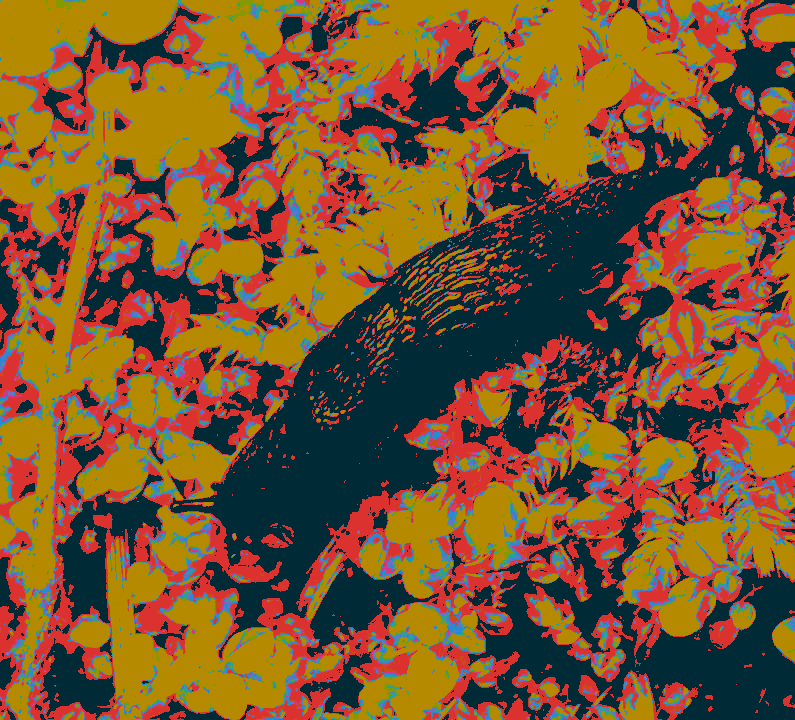
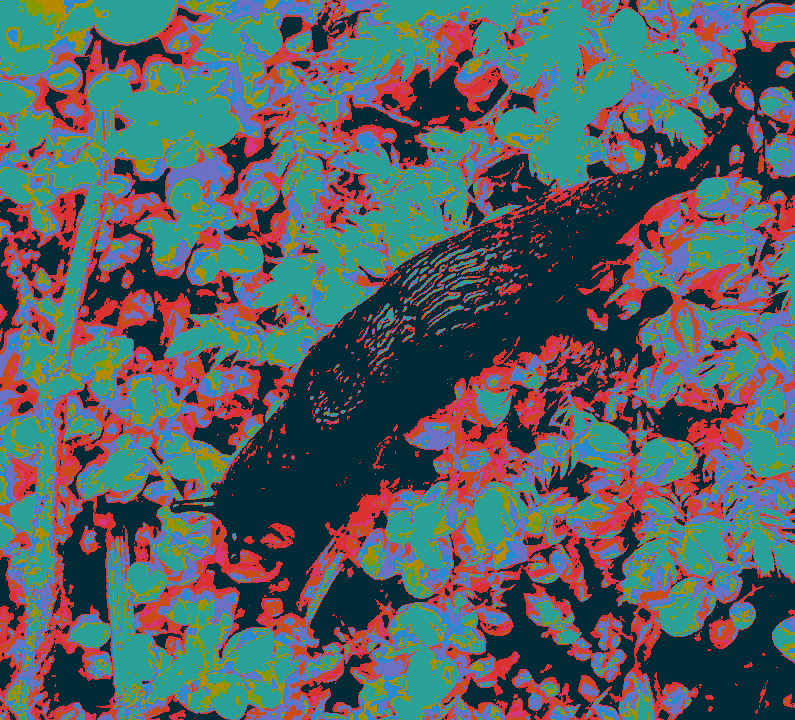
made colorconverter a little more like mountainmaker

diff --git a/colorconverter/test.html b/colorconverter/test.html
@@ -14,7 +14,137 @@
             background:transparent;
         }
     </style>
-    <script src="colorconverter.js"></script>
+    <script>
+        class ColorConverter extends HTMLElement {
+            constructor() {
+                super();
+                this.shadow = this.attachShadow({mode: 'open'})
+                this.shadowRoot.innerHTML = `
+                    <style> 
+                        #body {
+                            background-color: rgb(0,43,54);
+                        }
+                        #buttonContainer {
+                            display: flex;
+                            flex-wrap: wrap;
+                            width: 300px; /* set the width of the buttons container */
+                        }
+                        #fileInput,#colorsInput{
+                            background-color: rgb(42,161,152);
+                            padding: 7px;
+                            margin-top: 5px;
+                            margin-right: 5px; /* add a margin to the buttons */
+                            color: white;
+                            border: none;
+                            cursor: pointer;
+                        }
+                        #canvas {
+                            flex-grow: 1;
+                            vertical-align: top;
+                        }
+                    </style>
+         
+                    <div id="buttonContainer">
+                      <button id="fileInput">Choose Image</button>
+                      <select id="colorsInput">
+                          <option value="solarized">Solarized</option>
+                          <option value="grayscale">Grayscale</option>
+                          <option value="neons">Neons</option>
+                          <option value="black and white">Black and White</option>
+                      </select>
+                    </div>
+                    <input type="file" id="inputFile" accept="*" style="display:none"/>
+                    <canvas id="canvas"></canvas>
+                    `;        this._colors = 
+                     {neons: [[0,0,0],[255,0,0],[0,255,0],[0,0,255],[0,255,255],[255,0,255],[255,255,0],[255,255,255]]
+                     ,solarized : [[0,43,54],[181,137,0],[203,75,22],[220,50,47],[211,54,130],[108,113,196],[38,139,210],[42,161,152],[133,153,0]]
+                     ,grayscale : [[0,0,0],[255,255,255],[127,127,127],[63,63,63],[191,191,191]]
+                     ,"black and white" : [[0,0,0],[255,255,255]]
+                     }
+                
+                this.fileInputButton = this.shadow.querySelector("#fileInput");
+                this.colorSelector = this.shadow.querySelector("#colorsInput");
+                this.imageCanvas = this.shadow.querySelector("canvas");
+                this.fileInputButton.addEventListener("click", this.openFileDialog.bind(this));
+                this.colorSelector.addEventListener("change", this.updateCanvas.bind(this));
+                this.image = null;
+            }
+             
+            updateCanvas(){
+                console.log(this.colorSelector.value);
+                console.log(this._colors);
+                console.log(this._colors[this.colorSelector.value]);
+                const selectedColorScheme = this._colors[this.colorSelector.value];
+                const ctx = this.imageCanvas.getContext("2d");
+                ctx.drawImage(this.image, 0, 0, this.image.width, this.image.height);
+                const imageData = ctx.getImageData(0, 0, this.imageCanvas.width, this.imageCanvas.height);
+                const data = imageData.data;
+
+                for (let i = 0; i < data.length; i += 4) {
+                    let r = data[i];
+                    let g = data[i + 1];
+                    let b = data[i + 2];
+                    let nearestColor = this._getNearestColor(r, g, b, selectedColorScheme.palette);
+
+                    data[i] = nearestColor[0];
+                    data[i + 1] = nearestColor[1];
+                    data[i + 2] = nearestColor[2];
+                }
+            ctx.putImageData(imageData, 0, 0);
+            }
+
+            openFileDialog(){
+                const fileInput = document.createElement("input");
+                fileInput.type = "file";
+
+                fileInput.addEventListener("change", (event) => {
+                    const file = event.target.files[0];
+                    const reader = new FileReader();
+                    
+                    reader.addEventListener("load", (event) => {
+                        this.image = new Image();
+                        this.image.src = event.target.result;
+
+                        this.image.addEventListener("load", () => {
+                            this.imageCanvas.width = this.image.width;
+                            this.imageCanvas.height = this.image.height;
+                            
+                            const ctx = this.imageCanvas.getContext("2d");
+                            ctx.drawImage(this.image, 0, 0,this.image.width,this.image.height);
+                            this.updateCanvas();
+                        });
+                    });
+                    reader.readAsDataURL(file);
+                });
+                fileInput.click();
+            }
+
+            _getNearestColor(r,g,b){
+                let palette = this._colors[this.colorSelector.value]
+                let nearestColor = palette[0];
+                let nearestDistance = Number.MAX_SAFE_INTEGER;
+                for (let color of palette){
+                    let distance = this._getColorDistanceSquared(r,g,b,color[0],color[1],color[2]);
+                    if (distance < nearestDistance){
+                        nearestColor = color;
+                        nearestDistance = distance;
+                    }
+                }
+                return nearestColor;
+            }
+
+            _getColorDistanceSquared(r1, g1, b1, r2, g2, b2) {
+                function RGBtoL(red,green,blue) {
+                    return Math.pow((0.2126 * red),2) + 
+                   Math.pow((0.7152 * green),2) + 
+                   Math.pow((0.0722 * blue),2);
+                }
+            let l = Math.abs(RGBtoL(r1,g1,b1) - RGBtoL(r2,g2,b2));
+                return l;
+            }
+        }
+        customElements.define('color-converter',ColorConverter)
+    </script>
     <color-converter></color-converter>
 </body>
 </html

diff --git a/colorconverter.html b/colorconverter.html
@@ -10,7 +10,6 @@
 		<script src="navbar.js"></script>
         <div class="splash corner">
             <iframe src="colorconverter/test.html"></iframe>
-            <!-- text overlay -->
             <div class="overlay clickable corner">
                     <!--<div><a href="githubtocodehere">Code</a> · <a href="/colorconverter/">Fullscreen</a></div> -->
                     <div>Color converter flavor text</div>

diff --git a/mountainmaker/test.html b/mountainmaker/test.html
@@ -20,8 +20,8 @@
           const canvas = document.createElement('canvas');
           const ctx = canvas.getContext('2d');
 
-          canvas.height = 768;
           canvas.width = 1080;
+          canvas.height = 768;
 
           const button = document.createElement('button');
           button.textContent = 'Generate Fractal Mountain';

diff --git a/index.html b/index.html
@@ -10,7 +10,7 @@
     <script src="navbar.js"></script>
     <article>
       <header>
-        This is my About section, Under construction!
+        This is my About section, under construction!
       </header>
       <div class="content">
         <ul class="grid">
